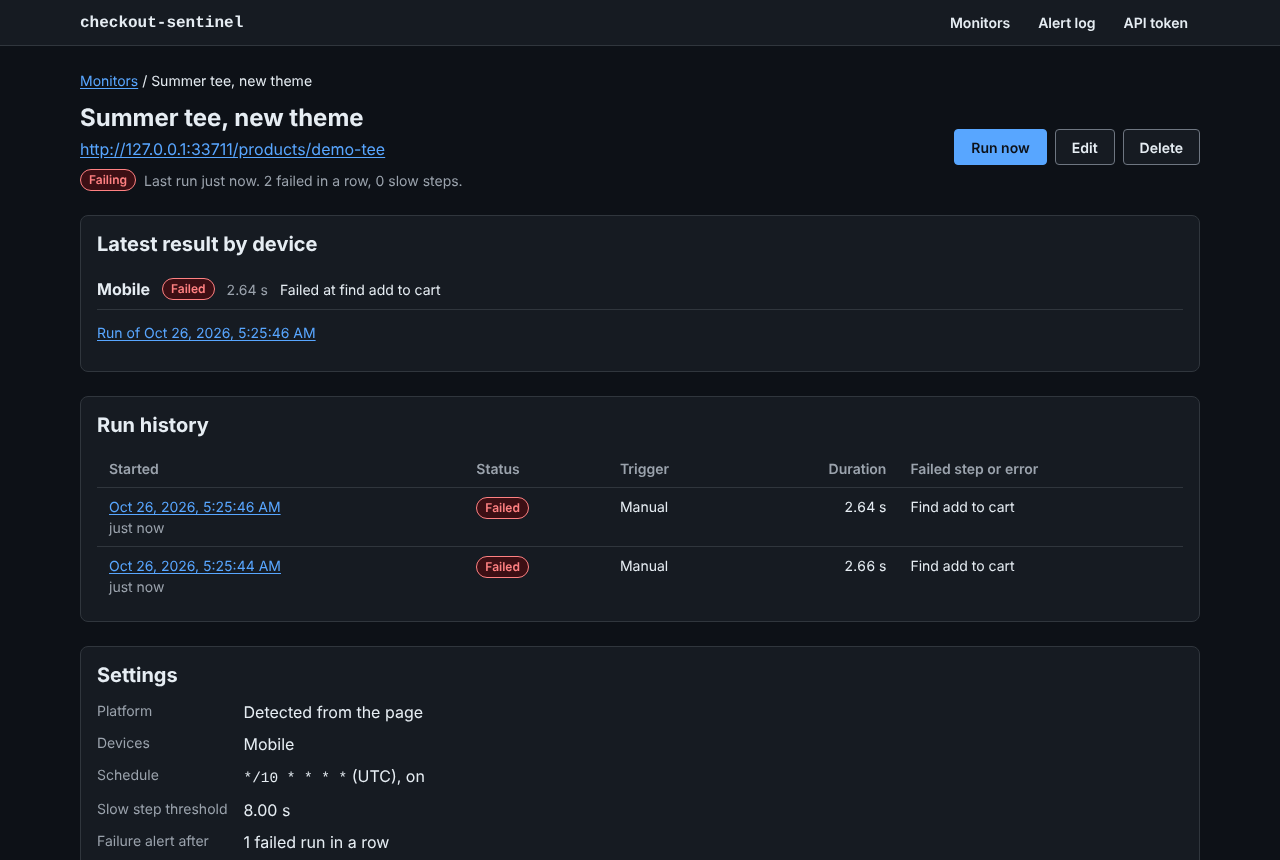
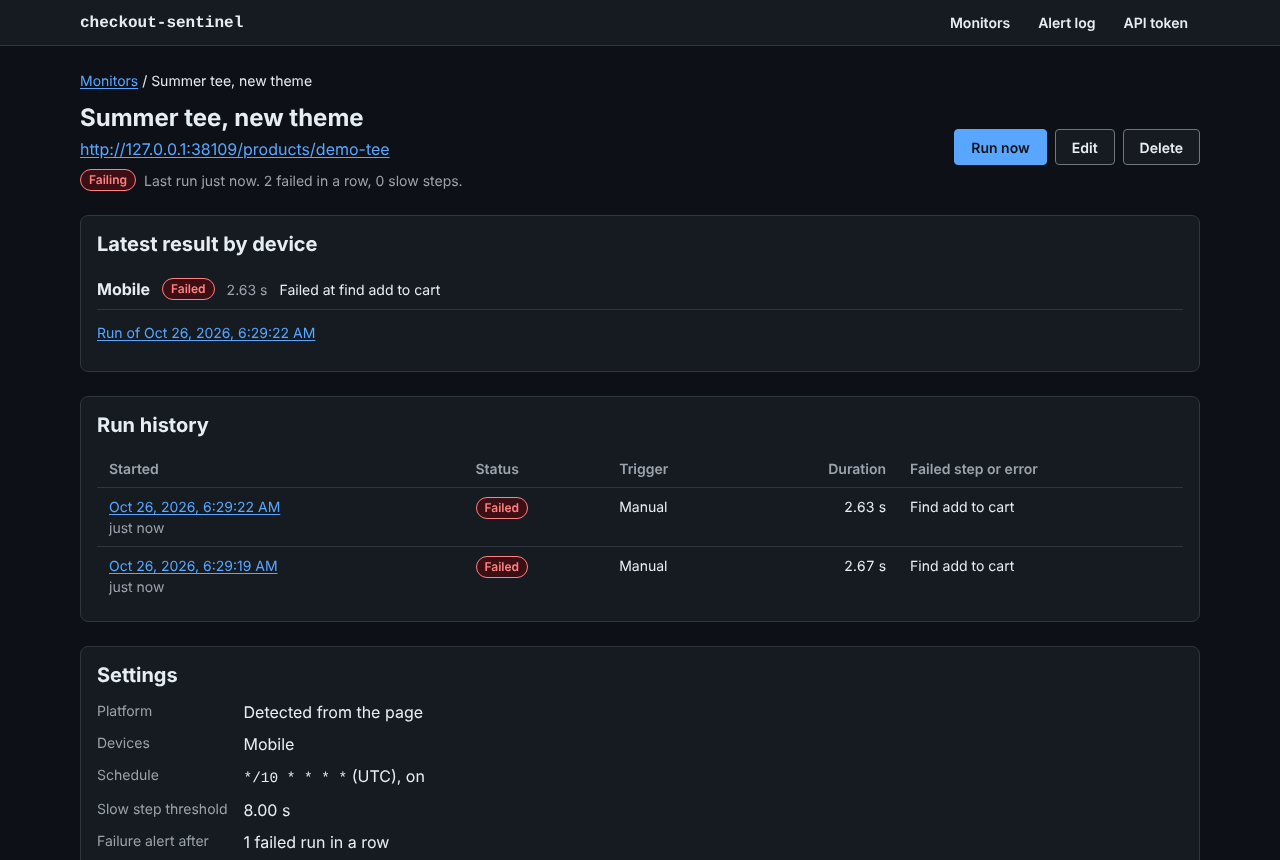
chore(release): 0.2.0
Move the unreleased changes into a 0.2.0 section of CHANGELOG.md,
grouped as Added (dashboard and its API routes, variant selection,
run housekeeping), Changed and Security (SSRF guard, alert delivery
without redirects, dashboard CSP and the artifacts endpoint).

Bump every workspace package and VERSION in core to 0.2.0, which sets
the CLI's --version, the user agent, the result's tool.version, the
/health version and the OpenAPI version. The bug report template's
placeholder follows, and the journey integration test that matches
the user agent sent to the fixture stores now expects 0.2.0.

README: status v0.2, the user agent string, and example output from
new real runs of the 0.2.0 CLI against the fixture stores, including
a run that picks a variant. The dashboard screenshots are taken again
with the 0.2.0 build (the run page shows the version). ARCHITECTURE.md
describes v0.2.

Claude-Session: https://claude.ai/code/session_019tpGUuZk5QU8Fd6pKpAYHh

diff --git a/packages/core/test/integration/journey.test.ts b/packages/core/test/integration/journey.test.ts
@@ -99,7 +99,7 @@ describe.each<[Exclude<FixturePlatform, 'generic'>]>([['shopify'], ['woocommerce
       expect(agents.length).toBeGreaterThan(0);
       for (const agent of agents) {
         expect(agent).toMatch(
-          /checkout-sentinel\/0\.1\.0 \(\+https:\/\/github\.com\/tahmidbintaslim\/checkout-sentinel\)/,
+          /checkout-sentinel\/0\.2\.0 \(\+https:\/\/github\.com\/tahmidbintaslim\/checkout-sentinel\)/,
         );
       }
     });

diff --git a/packages/core/src/version.ts b/packages/core/src/version.ts
@@ -1,4 +1,4 @@
 /** Kept in sync with package.json by test/unit/version.test.ts. */
-export const VERSION = '0.1.0';
+export const VERSION = '0.2.0';
 export const TOOL_NAME = 'checkout-sentinel';
 export const PROJECT_URL = 'https://github.com/tahmidbintaslim/checkout-sentinel';

diff --git a/CHANGELOG.md b/CHANGELOG.md
@@ -7,80 +7,11 @@ All notable changes are recorded here. The format follows
 
 ## [Unreleased]
 
-Result schema version: 1 (unchanged).
+## [0.2.0] - 2026-10-26
+
+Result schema version: 1 (unchanged; new step details are additive).
 
 ### Added
-
-- SSRF guard for every URL fetched on a user's behalf (monitor product URLs, webhook and Slack
-  URLs). Refuses non-http(s) schemes, credentials in URLs, ports other than 80 and 443, and
-  hosts that are or resolve to loopback, private, CGNAT, link-local (including
-  `169.254.169.254`), unique-local, IPv4-mapped, multicast, unspecified or reserved addresses.
-  Slack channel URLs must start with `https://hooks.slack.com/`.
-- The API checks monitor and alert URLs on create and update (400 with field-level issues).
-- The worker checks again at use time: before each run (refused runs are stored as `error`,
-  with no alert), on every connection of the journey's browser through a per-run egress proxy
-  (redirect hops included), and on every alert delivery. Connections go to the address that
-  was checked, which closes DNS rebinding.
-- `ALLOW_PRIVATE_TARGETS` (default `false`), `ALLOWED_TARGET_HOSTS` and `ALLOWED_TARGET_PORTS`
-  settings for the API and worker.
-- CLI flag `--block-private-targets` for `run` and `check`. It applies the worker's rules,
-  ports included, and reads `ALLOWED_TARGET_HOSTS` and `ALLOWED_TARGET_PORTS`. Without it the
-  CLI still reaches private addresses, as before.
-- Refusal reasons for names never include the address the name resolved to; the API and
-  worker log it at debug level.
-- Step details list requests the guard refused (`blockedRequests`). A refused navigation or
-  redirect hop fails the step and is named in its message; a refused subresource does not.
-- Fixture variant `redirect-to-loopback`.
-- Stale-run sweep in the worker. Runs still `running` `RUN_STALE_AFTER_MS` after they started
-  (default 15 minutes, raised when the timeouts allow longer runs) are marked `error` with
-  `Worker lost: ...`. Health, failure counts and alerts are not affected. It runs when a worker
-  starts and every `HOUSEKEEPING_INTERVAL_MS` (default 5 minutes; `0` turns it off on that
-  worker), under a Redis lock so one pass runs at a time. The lock uses its own Redis
-  connection, so with Redis down a pass fails and is counted instead of waiting.
-- Retention in the same pass. Runs older than `RUN_RETENTION_DAYS` (default 30; `0` keeps
-  everything) are deleted in batches with their alert deliveries and artifact directories. Each
-  monitor keeps its latest run, the run its status points at and the run behind its latest alert
-  of each kind. Artifact directories of deleted monitors are removed too, but only those that
-  hold the marker file `.checkout-sentinel-monitor`, which the worker now writes into
-  `<ARTIFACTS_DIR>/<monitorId>/` before each run. Directories of monitors deleted before
-  upgrading have no marker and stay. `ARTIFACTS_DIR` must belong to one deployment.
-- Each run records the BullMQ job it is an attempt of. When BullMQ runs a job again (after a
-  stall or an exception), the new attempt marks the job's earlier runs that are still `running`
-  as `error` (`Worker lost: BullMQ ran the job again before this run finished`) when it starts.
-  A stalled attempt that finishes later cannot apply its older result over the new attempt's,
-  even before the sweep would have caught it.
-- Worker metrics `checkout_sentinel_runs_swept_total`, `checkout_sentinel_runs_superseded_total`,
-  `checkout_sentinel_discarded_results_total`, `checkout_sentinel_runs_deleted_total`,
-  `checkout_sentinel_artifact_dirs_deleted_total` and
-  `checkout_sentinel_housekeeping_failures_total{task}`.
-- Migration `0001_run_housekeeping_indexes` adds indexes on `runs (started_at)` and on
-  `runs (started_at)` for running rows. It does not build them `CONCURRENTLY`, so writes to `runs`
-  wait while it runs.
-- Migration `0002_run_job_id` adds the nullable column `runs.job_id` and a partial index on it
-  for running rows. The index is not built `CONCURRENTLY` either. Runs from before the migration
-  have no job id; only the sweep finishes those.
-- Variant selection in `find_add_to_cart`. Before looking for the add-to-cart control, the
-  journey chooses an available variant. Shopify: product data from `/products/<handle>.js` on
-  the page's own origin, or product JSON in the page; the `?variant=` in the URL when
-  available, else the first available variant; set through the theme's selects and radio
-  swatches (never a quantity field), falling back to the form's hidden `id`. WooCommerce: the
-  first variation in stock from `data-product_variations`, set through the attribute selects;
-  the answer for a variation is WooCommerce's `show_variation` event when its script is on the
-  page (9.8 and later update the button 300 ms after `variation_id`), else the variation id and
-  button once they have stayed the same for 600 ms. Without variation data, combinations are
-  tried in order (at most 20), each lookup for as long as the step timeout allows. A lookup
-  that does not answer in time fails the step as "did not answer within the step timeout", not
-  as sold out. Quantity is never changed.
-- Step details `variant`, `variantId`, `variantSelectedBy`, `variantSource`,
-  `availableVariants` and `totalVariants` on `find_add_to_cart` when a variant was chosen. The
-  CLI prints the variant next to the matched control.
-- `find_add_to_cart` fails with `No available variant: ...` when every variant is sold out.
-- Fixture variants `variants` and `variants-sold-out` for both platforms, and fixture options
-  `productEndpoint`, `shopifyVariants`, `variantPickers`, `quantityPicker`, `ajaxVariations`,
-  `variationScript`, `wooDefaultAttributes`, `wooInStock`, `wooAttributeInputs`,
-  `lockedAddToCart`, `variationLookupDelayMs` and `platformSignals`. The WooCommerce variations
-  form runs a jQuery stand-in for WooCommerce's variation script that behaves like 9.8 and
-  later; the fixtures package depends on `jquery` to serve it. `pnpm fixtures` starts 14 stores.
 
 - Dashboard (`apps/web`, Vue 3 and Vite), served by the API at `/`: monitors with their
   status, last run, failed runs in a row and slow steps; a monitor's latest result per device,
@@ -111,6 +42,57 @@ Result schema version: 1 (unchanged).
   API.
 - `pnpm --filter @checkout-sentinel/web screenshots` takes the README screenshots from real
   runs against the fixture stores.
+- Variant selection in `find_add_to_cart`. Before looking for the add-to-cart control, the
+  journey chooses an available variant. Shopify: product data from `/products/<handle>.js` on
+  the page's own origin, or product JSON in the page; the `?variant=` in the URL when
+  available, else the first available variant; set through the theme's selects and radio
+  swatches (never a quantity field), falling back to the form's hidden `id`. WooCommerce: the
+  first variation in stock from `data-product_variations`, set through the attribute selects;
+  the answer for a variation is WooCommerce's `show_variation` event when its script is on the
+  page (9.8 and later update the button 300 ms after `variation_id`), else the variation id and
+  button once they have stayed the same for 600 ms. Without variation data, combinations are
+  tried in order (at most 20), each lookup for as long as the step timeout allows. A lookup
+  that does not answer in time fails the step as "did not answer within the step timeout", not
+  as sold out. Quantity is never changed.
+- Step details `variant`, `variantId`, `variantSelectedBy`, `variantSource`,
+  `availableVariants` and `totalVariants` on `find_add_to_cart` when a variant was chosen. The
+  CLI prints the variant next to the matched control.
+- `find_add_to_cart` fails with `No available variant: ...` when every variant is sold out.
+- Fixture variants `variants` and `variants-sold-out` for both platforms, and fixture options
+  `productEndpoint`, `shopifyVariants`, `variantPickers`, `quantityPicker`, `ajaxVariations`,
+  `variationScript`, `wooDefaultAttributes`, `wooInStock`, `wooAttributeInputs`,
+  `lockedAddToCart`, `variationLookupDelayMs` and `platformSignals`. The WooCommerce variations
+  form runs a jQuery stand-in for WooCommerce's variation script that behaves like 9.8 and
+  later; the fixtures package depends on `jquery` to serve it. `pnpm fixtures` starts 14 stores.
+- Stale-run sweep in the worker. Runs still `running` `RUN_STALE_AFTER_MS` after they started
+  (default 15 minutes, raised when the timeouts allow longer runs) are marked `error` with
+  `Worker lost: ...`. Health, failure counts and alerts are not affected. It runs when a worker
+  starts and every `HOUSEKEEPING_INTERVAL_MS` (default 5 minutes; `0` turns it off on that
+  worker), under a Redis lock so one pass runs at a time. The lock uses its own Redis
+  connection, so with Redis down a pass fails and is counted instead of waiting.
+- Retention in the same pass. Runs older than `RUN_RETENTION_DAYS` (default 30; `0` keeps
+  everything) are deleted in batches with their alert deliveries and artifact directories. Each
+  monitor keeps its latest run, the run its status points at and the run behind its latest alert
+  of each kind. Artifact directories of deleted monitors are removed too, but only those that
+  hold the marker file `.checkout-sentinel-monitor`, which the worker now writes into
+  `<ARTIFACTS_DIR>/<monitorId>/` before each run. Directories of monitors deleted before
+  upgrading have no marker and stay. `ARTIFACTS_DIR` must belong to one deployment.
+- Each run records the BullMQ job it is an attempt of. When BullMQ runs a job again (after a
+  stall or an exception), the new attempt marks the job's earlier runs that are still `running`
+  as `error` (`Worker lost: BullMQ ran the job again before this run finished`) when it starts.
+  A stalled attempt that finishes later cannot apply its older result over the new attempt's,
+  even before the sweep would have caught it.
+- Worker metrics `checkout_sentinel_runs_swept_total`, `checkout_sentinel_runs_superseded_total`,
+  `checkout_sentinel_discarded_results_total`, `checkout_sentinel_runs_deleted_total`,
+  `checkout_sentinel_artifact_dirs_deleted_total` and
+  `checkout_sentinel_housekeeping_failures_total{task}`.
+- Migration `0001_run_housekeeping_indexes` adds indexes on `runs (started_at)` and on
+  `runs (started_at)` for running rows. It does not build them `CONCURRENTLY`, so writes to `runs`
+  wait while it runs.
+- Migration `0002_run_job_id` adds the nullable column `runs.job_id` and a partial index on it
+  for running rows. The index is not built `CONCURRENTLY` either. Runs from before the migration
+  have no job id; only the sweep finishes those.
+- Fixture variant `redirect-to-loopback`.
 
 ### Changed
 
@@ -119,10 +101,6 @@ Result schema version: 1 (unchanged).
   answer. Requests from scripts and SDKs (`Accept: */*` or `application/json`) are answered as
   before. So the run link in alerts (`PUBLIC_BASE_URL/runs/<id>`) opens the dashboard.
 - `pnpm test:unit` also runs the dashboard's tests (the Vitest project `web`).
-- Alert deliveries no longer use `fetch`. A redirect answer is now a final failed delivery
-  (`HTTP 302 (redirects are not followed)`) instead of a retried network error.
-- Local development and tests against fixture stores on 127.0.0.1 need
-  `ALLOW_PRIVATE_TARGETS=true` on the API and worker.
 - A run's final status is written once. A result that arrives after its run was marked lost (by
   the sweep or by a new attempt of its job) or deleted is discarded: no state change, no alert.
   If BullMQ ran the job again, it refuses the late completion and keeps the new attempt's
@@ -135,6 +113,42 @@ Result schema version: 1 (unchanged).
   failed later at `verify_cart`.
 - A Shopify product whose only variant is sold out now fails `find_add_to_cart` with
   `No available variant: the only variant is sold out` instead of "hidden or disabled".
+- Version 0.2.0 in `--version`, the user agent (`checkout-sentinel/0.2.0`), the run result's `tool.version`,
+  `GET /health` and the OpenAPI document.
+- Local development and tests against fixture stores on 127.0.0.1 need
+  `ALLOW_PRIVATE_TARGETS=true` on the API and worker.
+
+### Security
+
+- SSRF guard for every URL fetched on a user's behalf (monitor product URLs, webhook and Slack
+  URLs). Refuses non-http(s) schemes, credentials in URLs, ports other than 80 and 443, and
+  hosts that are or resolve to loopback, private, CGNAT, link-local (including
+  `169.254.169.254`), unique-local, IPv4-mapped, multicast, unspecified or reserved addresses.
+  Slack channel URLs must start with `https://hooks.slack.com/`.
+- The API checks monitor and alert URLs on create and update (400 with field-level issues).
+- The worker checks again at use time: before each run (refused runs are stored as `error`,
+  with no alert), on every connection of the journey's browser through a per-run egress proxy
+  (redirect hops included), and on every alert delivery. Connections go to the address that
+  was checked, which closes DNS rebinding.
+- `ALLOW_PRIVATE_TARGETS` (default `false`), `ALLOWED_TARGET_HOSTS` and `ALLOWED_TARGET_PORTS`
+  settings for the API and worker.
+- CLI flag `--block-private-targets` for `run` and `check`. It applies the worker's rules,
+  ports included, and reads `ALLOWED_TARGET_HOSTS` and `ALLOWED_TARGET_PORTS`. Without it the
+  CLI still reaches private addresses, as before.
+- Refusal reasons for names never include the address the name resolved to; the API and
+  worker log it at debug level.
+- Step details list requests the guard refused (`blockedRequests`). A refused navigation or
+  redirect hop fails the step and is named in its message; a refused subresource does not.
+- Alert deliveries no longer use `fetch`. A redirect answer is now a final failed delivery
+  (`HTTP 302 (redirects are not followed)`) instead of a retried network error.
+- The dashboard's `index.html` is served with a Content Security Policy that allows no inline
+  or third-party script or style, plus `X-Frame-Options: DENY`, `X-Content-Type-Options: nosniff`
+  and `Referrer-Policy: no-referrer`. The token entered in the dashboard stays in the tab's
+  `sessionStorage` and is sent only as a bearer header to the same origin. Details are in
+  [SECURITY.md](SECURITY.md#dashboard).
+- `GET /runs/:id/artifacts/:name` needs the API token, serves only plain file names that the
+  run's stored result references, looks them up under `ARTIFACTS_DIR/<monitorId>/<runId>/` and
+  refuses a file whose real path, symbolic links resolved, is outside `ARTIFACTS_DIR`.
 
 ## [0.1.0] - 2026-10-25
 

diff --git a/README.md b/README.md
@@ -8,7 +8,7 @@ it recovers.
 It never enters payment details and never places an order.
 
 [![CI](https://github.com/tahmidbintaslim/checkout-sentinel/actions/workflows/ci.yml/badge.svg)](https://github.com/tahmidbintaslim/checkout-sentinel/actions/workflows/ci.yml)
-License: MIT. Status: v0.1, early.
+License: MIT. Status: v0.2, early.
 
 ## Why
 
@@ -93,40 +93,42 @@ node apps/cli/dist/main.js run http://127.0.0.1:4020/products/demo-tee   # size 
 
 ### Example output
 
-These are real runs against the fixture stores. A passing WooCommerce-like store:
+These are real runs against the fixture stores (paths shortened to
+`checkout-sentinel-results/<run-id>/`). A passing WooCommerce-like store:
 
 ```text
-checkout-sentinel 0.1.0  http://127.0.0.1:4015/product/demo-hoodie/
+checkout-sentinel 0.2.0  http://127.0.0.1:4015/product/demo-hoodie/
 Platform: woocommerce (high confidence: meta[name="generator"] mentions WooCommerce; wc_add_to_cart_params or woocommerce_params is defined; body has class woocommerce or woocommerce-page; button.single_add_to_cart_button)
 
-desktop  PASSED  640 ms
-   ok   open_product         117 ms  HTTP 200, platform woocommerce
-   ok   find_add_to_cart      70 ms  button.single_add_to_cart_button
-   ok   add_to_cart          126 ms
-   ok   verify_cart           11 ms  cart 0 -> 1 (Store API /wp-json/wc/store/v1/cart)
-   ok   go_to_checkout        55 ms
-   ok   checkout_renders      37 ms  /checkout/
+desktop  PASSED  881 ms
+   ok   open_product         199 ms  HTTP 200, platform woocommerce
+   ok   find_add_to_cart     182 ms  button.single_add_to_cart_button
+   ok   add_to_cart          143 ms
+   ok   verify_cart            9 ms  cart 0 -> 1 (Store API /wp-json/wc/store/v1/cart)
+   ok   go_to_checkout        56 ms
+   ok   checkout_renders      53 ms  /checkout/
 
-mobile   PASSED  516 ms
-   ok   open_product          89 ms  HTTP 200, platform woocommerce
-   ok   find_add_to_cart      52 ms  button.single_add_to_cart_button
-   ok   add_to_cart           87 ms
-   ok   verify_cart           11 ms  cart 0 -> 1 (Store API /wp-json/wc/store/v1/cart)
-   ok   go_to_checkout        54 ms
-   ok   checkout_renders      33 ms  /checkout/
+mobile   PASSED  701 ms
+   ok   open_product         118 ms  HTTP 200, platform woocommerce
+   ok   find_add_to_cart     120 ms  button.single_add_to_cart_button
+   ok   add_to_cart          110 ms
+   ok   verify_cart            9 ms  cart 0 -> 1 (Store API /wp-json/wc/store/v1/cart)
+   ok   go_to_checkout        64 ms
+   ok   checkout_renders      51 ms  /checkout/
 
-Result: PASSED  2/2 journeys passed  (1.48 s)
+Result: PASSED  2/2 journeys passed  (1.99 s)
+Result JSON: checkout-sentinel-results/<run-id>/result.json
 ```
 
 A Shopify-like store whose theme hides the button below 750px (exit code 1):
 
 ```text
-checkout-sentinel 0.1.0  http://127.0.0.1:4011/products/demo-tee
+checkout-sentinel 0.2.0  http://127.0.0.1:4011/products/demo-tee
 Platform: shopify (high confidence: window.Shopify is defined; meta[name="shopify-checkout-api-token"] or shopify-digital-wallet; Shopify response headers (x-shopid, x-shopify-stage, powered-by: Shopify); form[action*="/cart/add"])
 
-mobile   FAILED  2.54 s
-   ok   open_product         121 ms  HTTP 200, platform shopify
-  FAIL  find_add_to_cart     2.11 s  Add-to-cart control exists (submit button inside form[action*="/cart/add"]) but is hidden or disabled at this viewport
+mobile   FAILED  2.84 s
+   ok   open_product         151 ms  HTTP 200, platform shopify
+  FAIL  find_add_to_cart     2.23 s  Add-to-cart control exists (submit button inside form[action*="/cart/add"]) but is hidden or disabled at this viewport
           screenshot: checkout-sentinel-results/<run-id>/mobile-find_add_to_cart.png
   skip  add_to_cart                  Skipped because find_add_to_cart failed
   skip  verify_cart                  Skipped because find_add_to_cart failed
@@ -134,7 +136,27 @@ mobile   FAILED  2.54 s
   skip  checkout_renders             Skipped because find_add_to_cart failed
           trace: checkout-sentinel-results/<run-id>/mobile-trace.zip (open with: npx playwright show-trace <file>)
 
-Result: FAILED  0/1 journeys passed  (2.83 s)
+Result: FAILED  0/1 journeys passed  (3.29 s)
+Result JSON: checkout-sentinel-results/<run-id>/result.json
+```
+
+A Shopify-like product with size and colour options whose default variant is sold out. The
+journey picks the first available variant through the theme's own pickers:
+
+```text
+checkout-sentinel 0.2.0  http://127.0.0.1:4020/products/demo-tee
+Platform: shopify (high confidence: window.Shopify is defined; meta[name="shopify-checkout-api-token"] or shopify-digital-wallet; Shopify response headers (x-shopid, x-shopify-stage, powered-by: Shopify); form[action*="/cart/add"])
+
+desktop  PASSED  1.01 s
+   ok   open_product         168 ms  HTTP 200, platform shopify
+   ok   find_add_to_cart     358 ms  submit button inside form[action*="/cart/add"], variant S / White (theme options)
+   ok   add_to_cart          121 ms
+   ok   verify_cart            8 ms  cart 0 -> 1 (/cart.js)
+   ok   go_to_checkout        64 ms
+   ok   checkout_renders      41 ms  /checkouts/cn/fixture-checkout-xyz
+
+Result: PASSED  1/1 journeys passed  (1.39 s)
+Result JSON: checkout-sentinel-results/<run-id>/result.json
 ```
 
 Timings above come from a local fixture server and say nothing about real stores.
@@ -425,7 +447,7 @@ nothing and the journey would fail later at `verify_cart`.
 
 - One fresh browser context per journey; devices run in sequence.
 - The user agent keeps a normal browser prefix (so mobile themes still serve mobile markup) and
-  appends `checkout-sentinel/0.1.0 (+https://github.com/tahmidbintaslim/checkout-sentinel)`, or
+  appends `checkout-sentinel/0.2.0 (+https://github.com/tahmidbintaslim/checkout-sentinel)`, or
   your own URL via `USER_AGENT_CONTACT_URL`, so merchants can filter this traffic.
 - Schedules shorter than every 5 minutes are rejected.
 - The worker allows one journey per store host at a time across all workers by default

diff --git a/docs/ARCHITECTURE.md b/docs/ARCHITECTURE.md
@@ -1,6 +1,6 @@
 # Architecture
 
-This document describes how checkout-sentinel v0.1 is put together, why, and where it is
+This document describes how checkout-sentinel v0.2 is put together, why, and where it is
 expected to change as it grows into a hosted service.
 
 ## Components
@@ -428,7 +428,7 @@ compare-and-delete release), shared by every worker. A job that cannot get a slo
 failed. In a hosted version this becomes a per-plan limit, and many monitors on one host would
 also be spread across the schedule.
 
-**Browser pool.** v0.1 keeps one Chromium per worker process, reused by all its jobs, with a fresh
+**Browser pool.** The worker keeps one Chromium per process, reused by all its jobs, with a fresh
 context per journey. That is the main cost saving over launching Chromium per run, and contexts
 give full isolation of cookies and carts. Next steps if needed: recycle the browser after N
 journeys to cap memory growth, and move to a pool of several browsers per process, or to a remote
